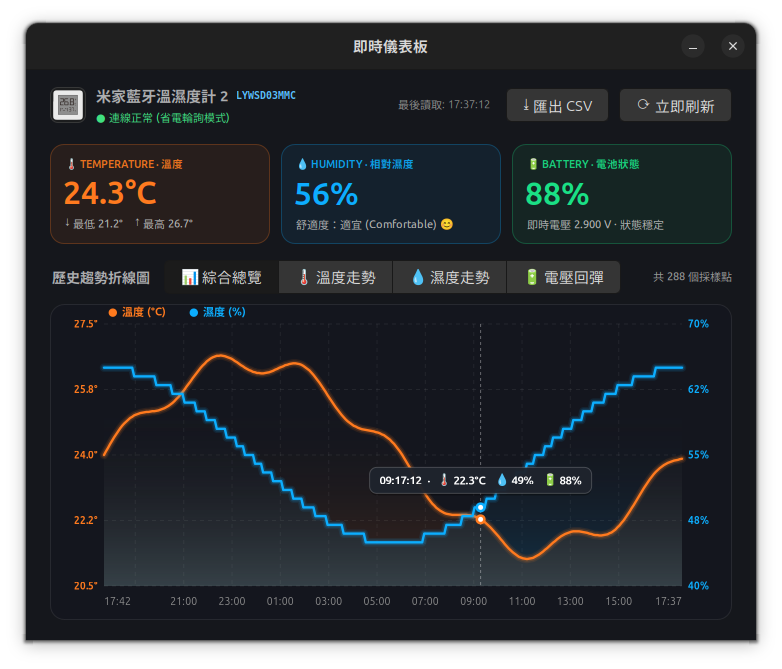
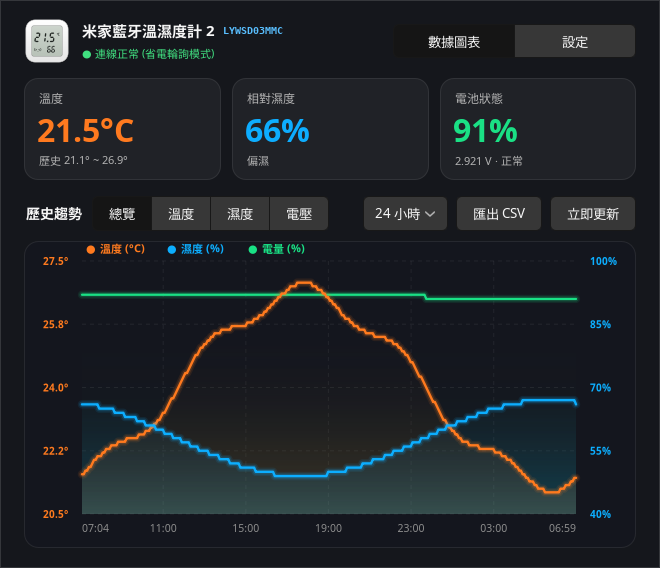
docs: refresh screenshots, remove emoji and fix outdated README details

diff --git a/README.md b/README.md
@@ -1,4 +1,4 @@
-# MijiaTempBar 🌡💧🔋
+# MijiaTempBar
 
 [![Release](https://img.shields.io/github/v/release/liaw-boy/mijia-temp-bar?color=blue&logo=github)](https://github.com/liaw-boy/mijia-temp-bar/releases)
 [![Platform](https://img.shields.io/badge/platform-macOS%2012.0%2B-lightgrey?logo=apple)](https://www.apple.com/macos/)
@@ -13,7 +13,7 @@
 
 ---
 
-## 📸 介面預覽 (Showcase)
+## 介面預覽 (Showcase)
 
 ### 1. 雙行微型膠囊狀態列 (Menu Bar / Tray)
 上下雙行微型膠囊設計（源自 [macbookBatteryMonitor](https://github.com/sgeric910601/macbookBatteryMonitor)），頂天立地吃滿選單列空間，兼顧大字體與極致橫向省空間：
@@ -35,40 +35,47 @@
 
 ### 2. 原生即時儀表板與歷史趨勢折線圖 (GUI Dashboard)
 直接點選狀態列圖示，就會彈出完整儀表板面板（右鍵為「設定／結束」精簡選單）：
+
+<p><img src="screenshots/macos-dashboard.png" alt="點狀態列彈出的即時儀表板" width="600"></p>
+
 - **裝置示意圖**：標頭顯示 LYWSD03MMC 外觀示意圖（程式繪製，非官方產品照）與連線狀態指示燈。
 - **三大指標數據卡片**：
-  - 🌡 **即時溫度**（附今日最低 / 最高溫統計）
-  - 💧 **相對濕度**（附人體舒適度評估：適宜 / 偏高 / 乾燥）
-  - 🔋 **電池電量**（附毫伏級精確即時電壓監控）
+  - **即時溫度**（附今日最低 / 最高溫統計）
+  - **相對濕度**（附人體舒適度評估：舒適 / 偏濕 / 偏乾）
+  - **電池電量**（附毫伏級精確即時電壓監控）
 - **互動式向量折線圖**：
-  - **📊 綜合總覽**：同屏繪製 **溫度 (°C)** 與 **濕度 (%)** 兩條曲線，雙 Y 軸；電量另有獨立的「電壓」分頁。可切換 6 小時／24 小時／7 天／全部的時間範圍（預設 24 小時）。
-  - **分頁專題走勢**：支援切換「🌡 溫度走勢 / 💧 濕度走勢 / 🔋 電壓回彈」。
+  - **綜合總覽**：同屏繪製 **溫度 (°C)**、**濕度 (%)** 與 **電量 (%)** 三條曲線，雙 Y 軸；電壓另有獨立分頁。可切換 6 小時／24 小時／7 天／全部的時間範圍（預設 24 小時）。
+  - **分頁專題走勢**：支援切換「溫度 / 濕度 / 電壓」。
   - **智慧避讓懸停氣泡 (Hover HUD)**：滑鼠移動時同步標記三色光暈點位，當數值位於圖表頂端時自動翻轉避讓，確保資訊絕不遮蔽。
   - **CSV 數據匯出**：一鍵將完整採樣歷史匯出為標準 CSV 格式。
 
 ### 3. 全新整合型原生偏好設定頁面 (Preferences & Settings)
 在面板頂部切換「設定」分頁：
-- **📶 網路與居家在席感應**：
+
+<p><img src="screenshots/macos-settings.png" alt="面板內的設定分頁" width="600"></p>
+
+- **網路與居家在席感應**：
   - 指定 Wi-Fi (SSID) 綁定開關與目標名稱設定。
   - 路由器硬體特徵 (MAC) 雙重保險開關與即時檢測資訊。
   - GPS 居家大範圍地理圍欄開關、100m ~ 1000m 半徑調節、一鍵記錄目前座標為家。
-  - **即時在席狀態指示卡片**：即時動態反饋當前在線與休眠停機狀態（例如 `📶 已連上指定 Wi-Fi [Home_5G] · 正常運作` 或 `🚗 未在指定 Wi-Fi · 已徹底休眠停機 (0 耗電)`）。
-- **⏱ 採樣頻率與省電策略**：
+  - **即時在席狀態指示卡片**：即時動態反饋當前在線與休眠停機狀態（例如 `狀態：已連上指定 Wi-Fi [Home_5G] · 藍牙輪詢正常運作中` 或 `狀態：未連線至指定 Wi-Fi [Home_5G] · 已徹底休眠停機 (0 耗電)`）。
+- **採樣頻率與省電策略**：
   - 連線更新間隔下拉選單（30 秒 ~ 2 小時，支援任意分鐘自訂）。
   - 詳盡的秒讀休眠與指數退避策略說明。
-- **🎨 狀態列外觀與警示通知**：
+- **狀態列外觀與警示通知**：
   - 5 種狀態列樣式即時下拉切換。
   - 僅連線時顯示開關。
   - 低電量（$\le 15\%$ 或 $\le 2.60\text{V}$）macOS 原生推播通知開關。
   - 濕度警示：可自訂濕度上限／下限（預設 70% / 30%，預設關閉），超出範圍時推播通知，回到範圍內才重新武裝，持續超標每 3 小時再提醒一次。
-- **ℹ 設備與系統資訊**：
+- **版本更新**：手動或每天自動檢查 GitHub release，有新版只提示、不自動安裝。
+- **設備與系統資訊**：
   - 設備型號、雙模協議、版本與開源來源資訊。
 
 ---
 
-## 🌟 核心特色 (Core Highlights)
+## 核心特色 (Core Highlights)
 
-### ⚡ 獨家「即連即斷 (Connect-Read-Disconnect)」超省電架構
+### 獨家「即連即斷 (Connect-Read-Disconnect)」超省電架構
 原廠韌體預設在 BLE GATT 連線期間會開啟 Notify，每 6 秒發送一次射頻訊號，導致微型 CR2032 鈕扣電池承受劇烈負載內阻壓降 (Voltage Sag)，幾天內電壓即從 2.9V 跌破 2.85V。
 
 本專案研發「**即連即斷**」極致省電演算法：
@@ -83,60 +90,60 @@ flowchart LR
 - **連線 1 秒即斷**：完全關閉 GATT Notify，讀取一次數據後立即調用 `cancelPeripheralConnection`。
 - **電池電壓完美回彈**：感測器 99.7% 時間處於 Deep Sleep 休眠，鈕扣電池電壓顯著回升（實測從 2.854V 回彈至 2.880V+），續航延長至一年以上！
 
-### ⏱ 彈性可調連線間隔（支援自訂分鐘）
-選單支援快速切換預設間隔或彈窗輸入任意分鐘數：
+### 彈性可調連線間隔（支援自訂分鐘）
+在「設定」分頁快速切換預設間隔，或輸入任意分鐘數：
 - `30 秒`：即時調試模式
 - `1 分鐘` / `3 分鐘`：一般動態監控
 - `5 分鐘`：**推薦平衡模式**（預設）
 - `10 分鐘` / `15 分鐘` / `30 分鐘`：深度省電模式
 - `1 小時` / `2 小時`：**超省電休眠模式**（連線 1 秒、休眠 3599 秒）
-- `自訂時間 (分鐘)...`：支援任意整數分鐘（如 45、90、120 分鐘等）。
+- `自訂分鐘`：支援任意整數分鐘（如 45、90、120 分鐘等）。
 
-### 🔔 低電量智慧預警與推播通知 (Low Battery Notification)
+### 低電量智慧預警與推播通知 (Low Battery Notification)
 CR2032 鈕扣電池在壽命末期（電壓跌破 2.60V）會進入斷崖式崩塌放電，幾天內即會完全耗盡：
 - **雙重健康門檻診斷**：當電量 $\le 15\%$ 或電壓 $\le 2.60\text{V}$ 時，自動觸發低電量預警。
 - **macOS 原生系統橫幅推播 (UserNotifications)**：即時彈出 macOS 系統通知，提醒及早備妥並更換 CR2032 電池。
 - **24 小時防干擾冷卻機制**：每日最多提醒一次，絕不產生通知轟炸。換上新電池後自動復位重置。
-- **狀態列與選單視覺化警示**：狀態列選單與儀表板卡片同步標記 `⚠ 電量過低` 紅色醒目標籤，選單亦提供獨立開關隨時關閉或啟用提醒。
+- **狀態列與選單視覺化警示**：儀表板電池卡片標記「電量過低，請更換電池」紅色醒目標籤，「設定」分頁提供獨立開關隨時關閉或啟用提醒。
 
-### 📍 居家與網路自動感應 (Wi-Fi SSID 綁定與大範圍地理圍欄)
+### 居家與網路自動感應 (Wi-Fi SSID 綁定與大範圍地理圍欄)
 業界領先的「**多層在席感知架構 (Multi-Tier Presence Pipeline)**」，完美解決筆電攜帶外出或遠離設備時的背景輪詢耗電疑慮：
-- **📶 指定 Wi-Fi (SSID) 綁定喚醒**：可指定家中的 Wi-Fi 名稱（如 `Home_5G`），僅在連上該 Wi-Fi 時喚醒連線；一旦中斷連線或切換至公司/手機熱點等外部網路，藍牙立即進入 0 射頻、0 CPU 負載的徹底休眠停機！更具備路由器硬體 MAC 雙重保險，免定位權限亦可精準運作。
-- **📍 GPS 居家大範圍地理圍欄**：結合 macOS 原生 `CoreLocation`（100m 粗定位）與居家網路閘道建立定位錨點，半徑 100m ~ 1000m 自由設定。
+- **指定 Wi-Fi (SSID) 綁定喚醒**：可指定家中的 Wi-Fi 名稱（如 `Home_5G`），僅在連上該 Wi-Fi 時喚醒連線；一旦中斷連線或切換至公司/手機熱點等外部網路，藍牙立即進入 0 射頻、0 CPU 負載的徹底休眠停機！更具備路由器硬體 MAC 雙重保險，免定位權限亦可精準運作。
+- **GPS 居家大範圍地理圍欄**：結合 macOS 原生 `CoreLocation`（100m 粗定位）與居家網路閘道建立定位錨點，半徑 100m ~ 1000m 自由設定。
 - **出門離家徹底斷電 (Away Mode)**：一旦帶著筆電離開居家範圍或脫離指定 Wi-Fi，軟體**完全終止一切藍牙連線與背景定時器**，徹底停機。
 - **進門回家自動喚醒 (Home Mode)**：走入家門範圍或連回家中 Wi-Fi 瞬間，1 秒內自動喚醒藍牙連線，狀態列無感浮現最新數值！
-- **📈 離線指數退避 (Exponential Backoff)**：若在家中短暫將筆電移至藍牙死角，自動啟動 60 秒 $\to$ 300 秒 $\to$ 900 秒階梯退避，徹底杜絕藍牙空轉耗電！
+- **離線指數退避 (Exponential Backoff)**：若在家中短暫將筆電移至藍牙死角，自動啟動 60 秒 $\to$ 300 秒 $\to$ 900 秒階梯退避，徹底杜絕藍牙空轉耗電！
 
-### 🔌 原廠出廠與開源韌體雙模自動相容
+### 原廠出廠與開源韌體雙模自動相容
 - **原廠官方韌體**：免刷機、出廠即用，直接透過 BLE GATT 協議精準讀取。
 - **開源自製韌體**：自動嗅探並解析 ATC1441、pvvx、BTHome v2 廣播封包。
 
-### 👻 智慧隱藏與自動秒連
+### 智慧隱藏與自動秒連
 - 啟用「**僅連線時顯示**」後，帶著筆電外出或超出藍牙範圍時，選單列圖示會**自動完全隱藏**，保持桌面乾淨。
 - 回到室內藍牙範圍內，數秒內**自動無感重連並重新浮現**。
 - 啟動瞬間先讀取本機快取數據，徹底消除選單列閃爍。
 
 ---
 
-## 🖥 跨平台支援 (macOS & Linux)
+## 跨平台支援 (macOS & Linux)
 
 本專案提供兩個平台的原生實現：
 
 | 平台 | 技術棧 | 系統匣實作 | 介面渲染 |
 | :--- | :--- | :--- | :--- |
-| **🍎 macOS** | Swift 6 + AppKit + CoreBluetooth | `NSStatusItem` | CoreGraphics 向量圖形 |
-| **🐧 Linux** | Python 3.10+ + BlueZ + bleak | Ayatana AppIndicator (SNI) | GTK 3 + Cairo + Pango |
+| **macOS** | Swift 6 + AppKit + CoreBluetooth | `NSStatusItem` | CoreGraphics 向量圖形 |
+| **Linux** | Python 3.10+ + BlueZ + bleak | Ayatana AppIndicator (SNI) | GTK 3 + Cairo + Pango |
 
 兩者功能保持 100% 一致（5 種狀態列樣式、即時儀表板、綜合折線圖、CSV 匯出、省電輪詢）。
 
 ---
 
-## 📥 安裝與使用 (Installation)
+## 安裝與使用 (Installation)
 
-### 🍎 macOS 版本
+### macOS 版本
 
 #### 方式 1：直接下載發行版本（最推薦）
-1. 前往 **[Releases 頁面](https://github.com/liaw-boy/mijia-temp-bar/releases)** 下載最新版 `MijiaTempBar-v1.3.0.zip`。
+1. 前往 **[Releases 頁面](https://github.com/liaw-boy/mijia-temp-bar/releases)** 下載最新版 `MijiaTempBar-v1.8.0.zip`。
 2. 解壓縮後將 `MijiaTempBar.app` 拖移至 `/Applications`（應用程式）資料夾。
 3. 雙擊啟動即可！（首次啟動若系統跳出「想使用藍牙」，請點選允許）。
 
@@ -155,7 +162,7 @@ open MijiaTempBar.app
 
 ---
 
-### 🐧 Linux 版本
+### Linux 版本
 
 詳細說明請參閱 **[linux/README.md](linux/README.md)**。
 
@@ -177,11 +184,11 @@ cd mijia-temp-bar/linux
 ./install.sh
 ```
 安裝完成後可從應用程式選單啟動「**米家溫濕度狀態列**」，或在終端機輸入 `mijia-temp-bar`。
-開機自動啟動可直接在系統匣選單勾選「**開機時自動啟動**」。
+開機自動啟動可在儀表板的「設定」分頁打開「**開機自動啟動**」。
 
 ---
 
-## 🏷 支援硬體規格 (Supported Hardware)
+## 支援硬體規格 (Supported Hardware)
 
 | 設備型號 | 官方名稱 | 支援方式 |
 | :--- | :--- | :--- |
@@ -197,18 +204,20 @@ cd mijia-temp-bar/linux
 
 ---
 
-## 🛠 專案目錄結構 (Project Structure)
+## 專案目錄結構 (Project Structure)
 
 ```
 mijia-temp-bar/
 ├── Sources/                          # macOS 原生 Swift 原始碼
 │   ├── main.swift                    # AppKit 生命週期與常駐模式進入點
-│   ├── StatusBarController.swift     # 狀態列介面、雙行微型膠囊渲染、下拉選單
+│   ├── StatusBarController.swift     # 狀態列介面、雙行微型膠囊渲染、點擊彈出儀表板面板
 │   ├── BluetoothManager.swift        # CoreBluetooth 藍牙搜尋、即連即斷省電讀取、廣播解析
 │   ├── DashboardWindowController.swift # 即時儀表板視窗、硬體渲染卡片、舒適度評估
+│   ├── DeviceView.swift              # 隨數據變化的裝置示意圖 (程式繪製)
 │   ├── ChartView.swift               # CoreGraphics 雙 Y 軸、三線走勢圖、時間比例 X 軸、HUD 氣泡
 │   ├── HistoryManager.swift          # 歷史資料持久化、JSON 儲存、CSV 匯出
 │   ├── NotificationManager.swift     # 低電量預警診斷、macOS 系統橫幅推播、24h 防干擾冷卻
+│   ├── UpdateChecker.swift           # GitHub release 更新檢查 (只提示、不自動安裝)
 │   ├── LocationGatekeeper.swift      # 居家大範圍地理圍欄、網路閘道錨點、離家停機與進門喚醒
 │   └── Logger.swift                  # 輕量本機除錯日誌 (~/Library/Logs/MijiaTempBar)
 ├── generate_icon.swift               # Google Stitch Vibe Design 原生圖示生成腳本
@@ -226,6 +235,6 @@ mijia-temp-bar/
 
 ---
 
-## 📄 授權條款 (License)
+## 授權條款 (License)
 
 本專案採用 [MIT License](LICENSE) 授權開放原始碼。歡迎社群提交 Issue 與 Pull Request！

diff --git a/linux/README.md b/linux/README.md
@@ -1,6 +1,6 @@
-# MijiaTempBar for Linux 🐧🌡💧
+# MijiaTempBar for Linux
 
-[![Platform](https://img.shields.io/badge/platform-Linux-lightgrey?logo=linux)](#-系統需求-requirements)
+[![Platform](https://img.shields.io/badge/platform-Linux-lightgrey?logo=linux)](#系統需求-requirements)
 [![Python](https://img.shields.io/badge/Python-3.10%2B-blue?logo=python)](https://www.python.org/)
 
 MijiaTempBar 的 Linux 移植版本：在桌面系統匣（GNOME 頂部面板 / KDE 系統匣）即時顯示 **小米 / 米家藍牙溫濕度計 2（LYWSD03MMC）** 的溫濕度，核心功能與 macOS 版相同（不含 Wi-Fi／GPS 居家感應停機，桌面環境通常不需要）。
@@ -8,11 +8,12 @@ MijiaTempBar 的 Linux 移植版本：在桌面系統匣（GNOME 頂部面板 / 
 <p>
   <img src="screenshots/tray-styles.png" alt="系統匣五種顯示樣式" height="300">
   <img src="screenshots/dashboard.png" alt="即時儀表板與歷史趨勢折線圖" height="300">
+  <img src="screenshots/settings.png" alt="儀表板設定分頁" height="300">
 </p>
 
 ---
 
-## 🌟 功能 (Features)
+## 功能 (Features)
 
 - **與 macOS 版相同的 5 種狀態列樣式**：雙行微型膠囊 `[TMP] / [HUM]`、純數字雙行堆疊、橫向完整、僅溫度、緊湊單行。
 - **原廠韌體「即連即斷」省電讀取**：透過 BlueZ GATT 讀取一次數據後立即斷線，讓硬體回到 Deep Sleep。
@@ -28,7 +29,7 @@ MijiaTempBar 的 Linux 移植版本：在桌面系統匣（GNOME 頂部面板 / 
 
 ---
 
-## 💻 系統需求 (Requirements)
+## 系統需求 (Requirements)
 
 - Python 3.10 以上、BlueZ 5（`bluetooth` 服務）、GTK 3、Ayatana AppIndicator
 - 支援 StatusNotifierItem 系統匣的桌面環境
@@ -38,7 +39,7 @@ MijiaTempBar 的 Linux 移植版本：在桌面系統匣（GNOME 頂部面板 / 
 
 ---
 
-## 📥 安裝 (Installation)
+## 安裝 (Installation)
 
 ### 1. 安裝系統套件
 
@@ -85,7 +86,7 @@ python3 -m unittest
 
 ---
 
-## 🖱 操作方式
+## 操作方式
 
 - **左鍵** 點擊圖示：開啟精簡選單（開啟儀表板、結束）；間隔、樣式、通知等都在儀表板的「設定」分頁。
 - **中鍵** 點擊圖示：直接開啟即時儀表板。
@@ -93,7 +94,7 @@ python3 -m unittest
 
 ---
 
-## 📁 檔案位置
+## 檔案位置
 
 | 用途 | macOS 版 | Linux 版 |
 | --- | --- | --- |
@@ -104,7 +105,7 @@ python3 -m unittest
 
 ---
 
-## ❓ 常見問題 (Troubleshooting)
+## 常見問題 (Troubleshooting)
 
 - **系統匣看不到圖示**：GNOME 請確認 AppIndicator 擴充套件已啟用（`gnome-extensions list --enabled`）。
 - **一直顯示「搜尋溫濕度計中」**：確認電腦藍牙已開啟（`bluetoothctl show`）、溫濕度計在附近，且沒有被手機米家 App 等其他裝置連線佔用。
@@ -113,7 +114,7 @@ python3 -m unittest
 
 ---
 
-## 🛠 專案結構 (與 macOS 版對照)
+## 專案結構 (與 macOS 版對照)
 
 ```text
 linux/
